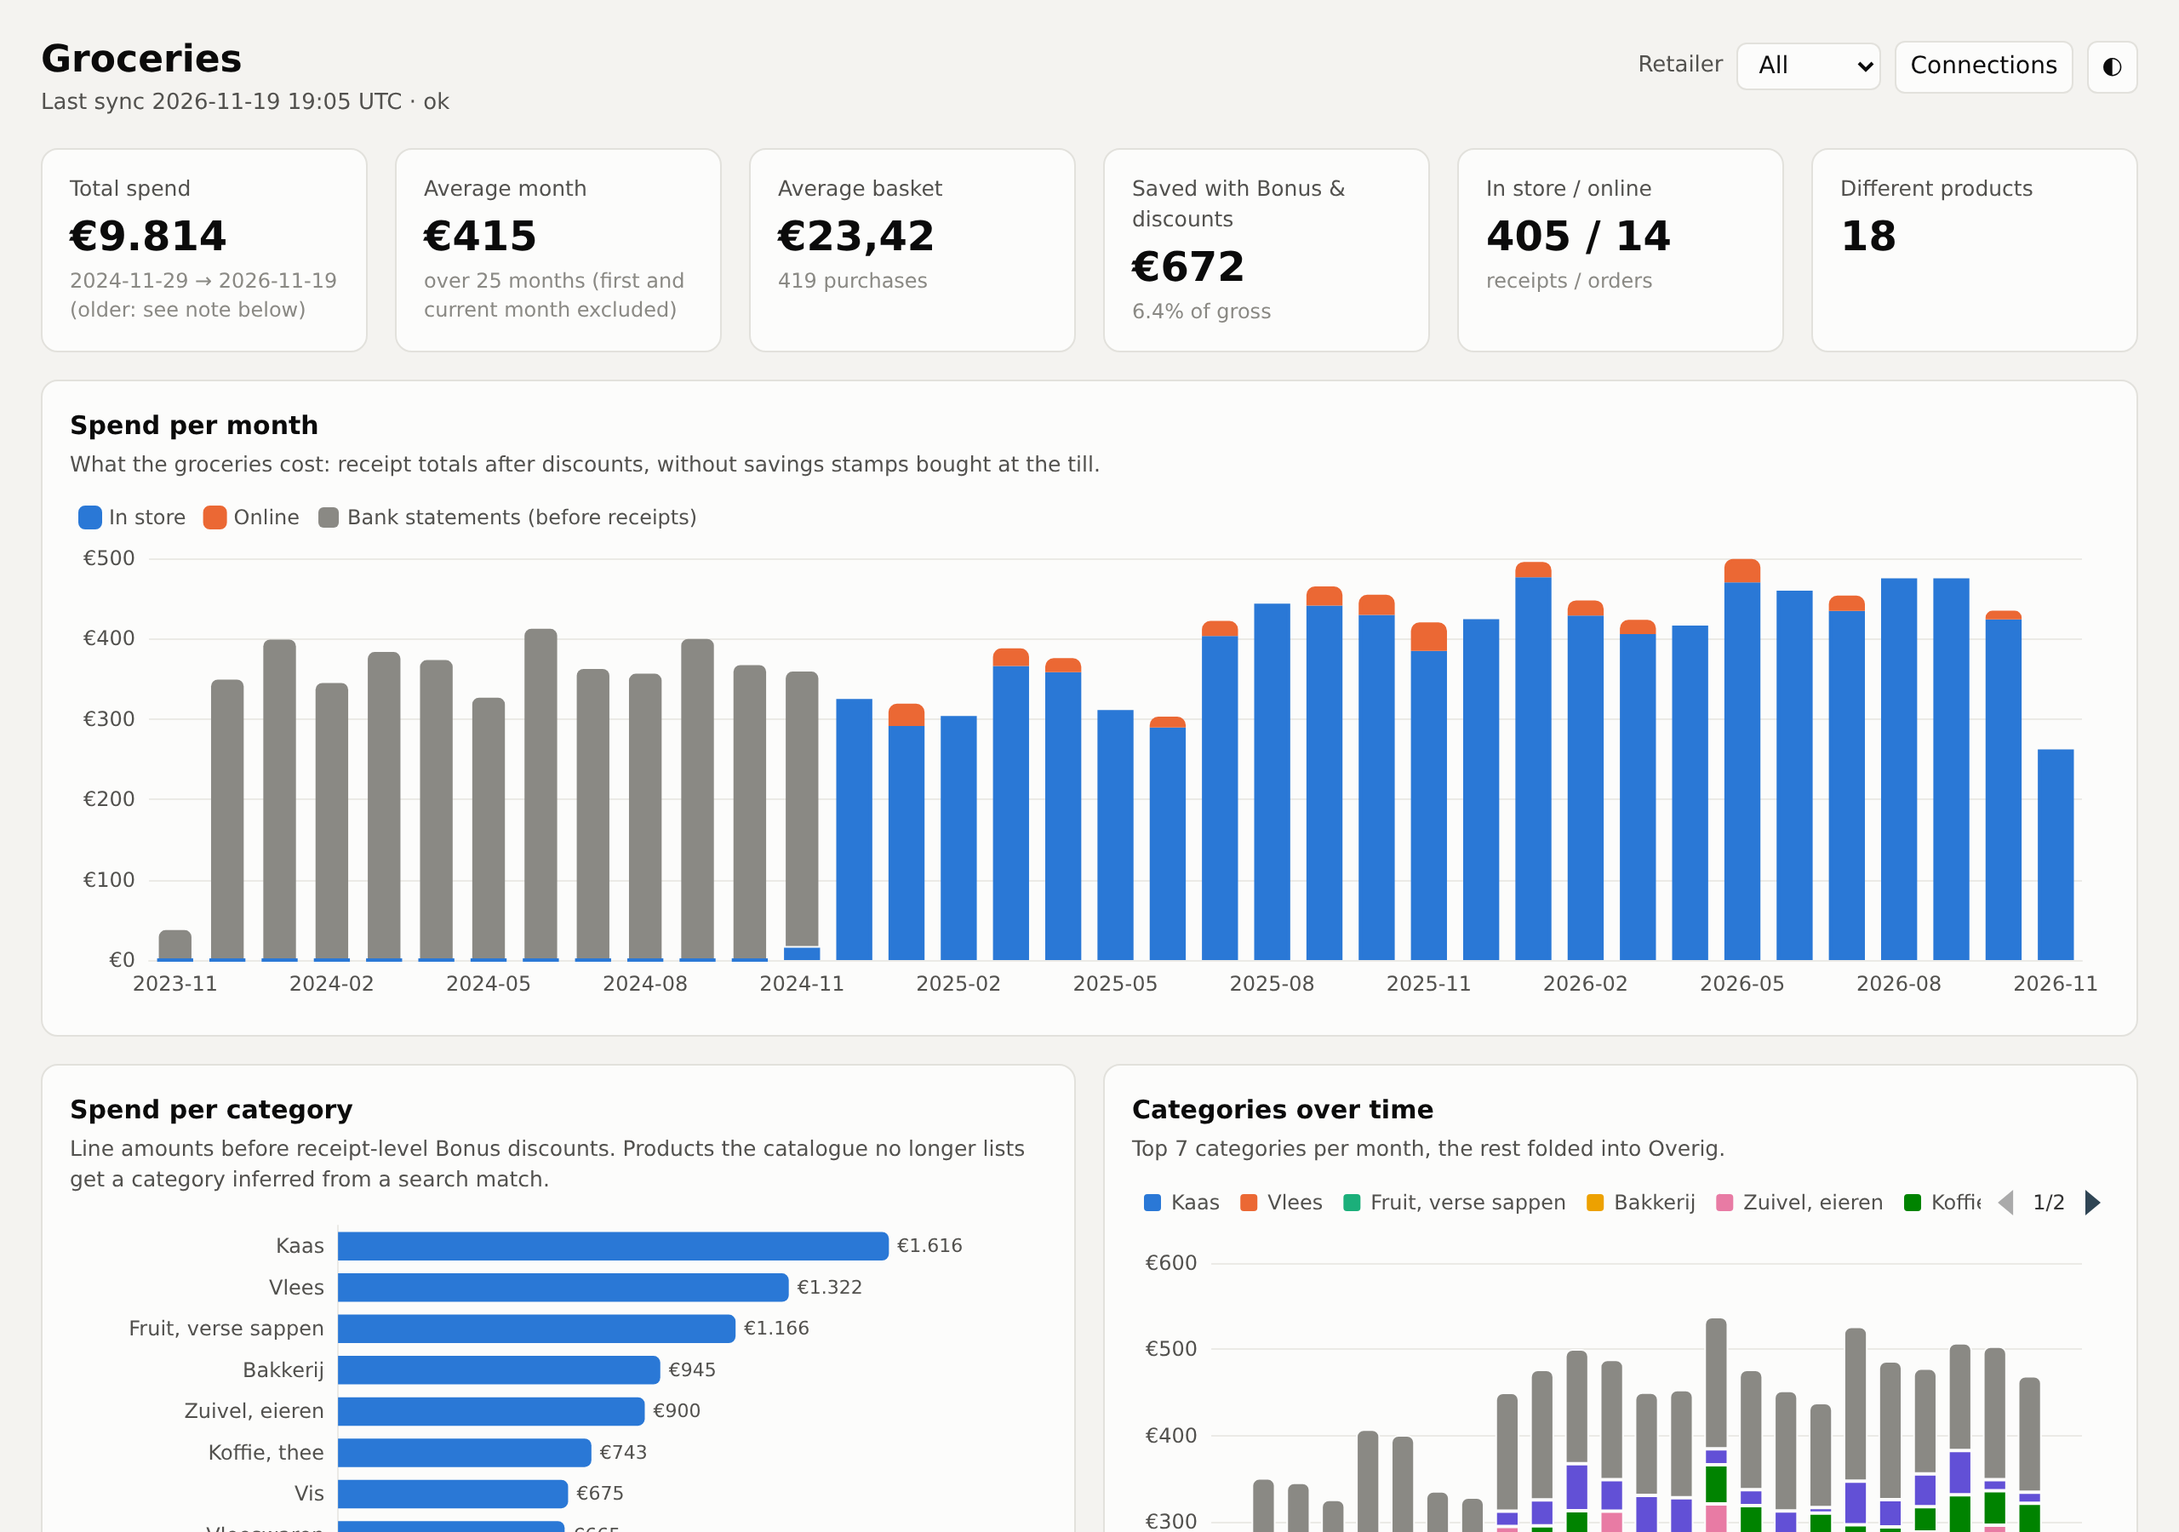
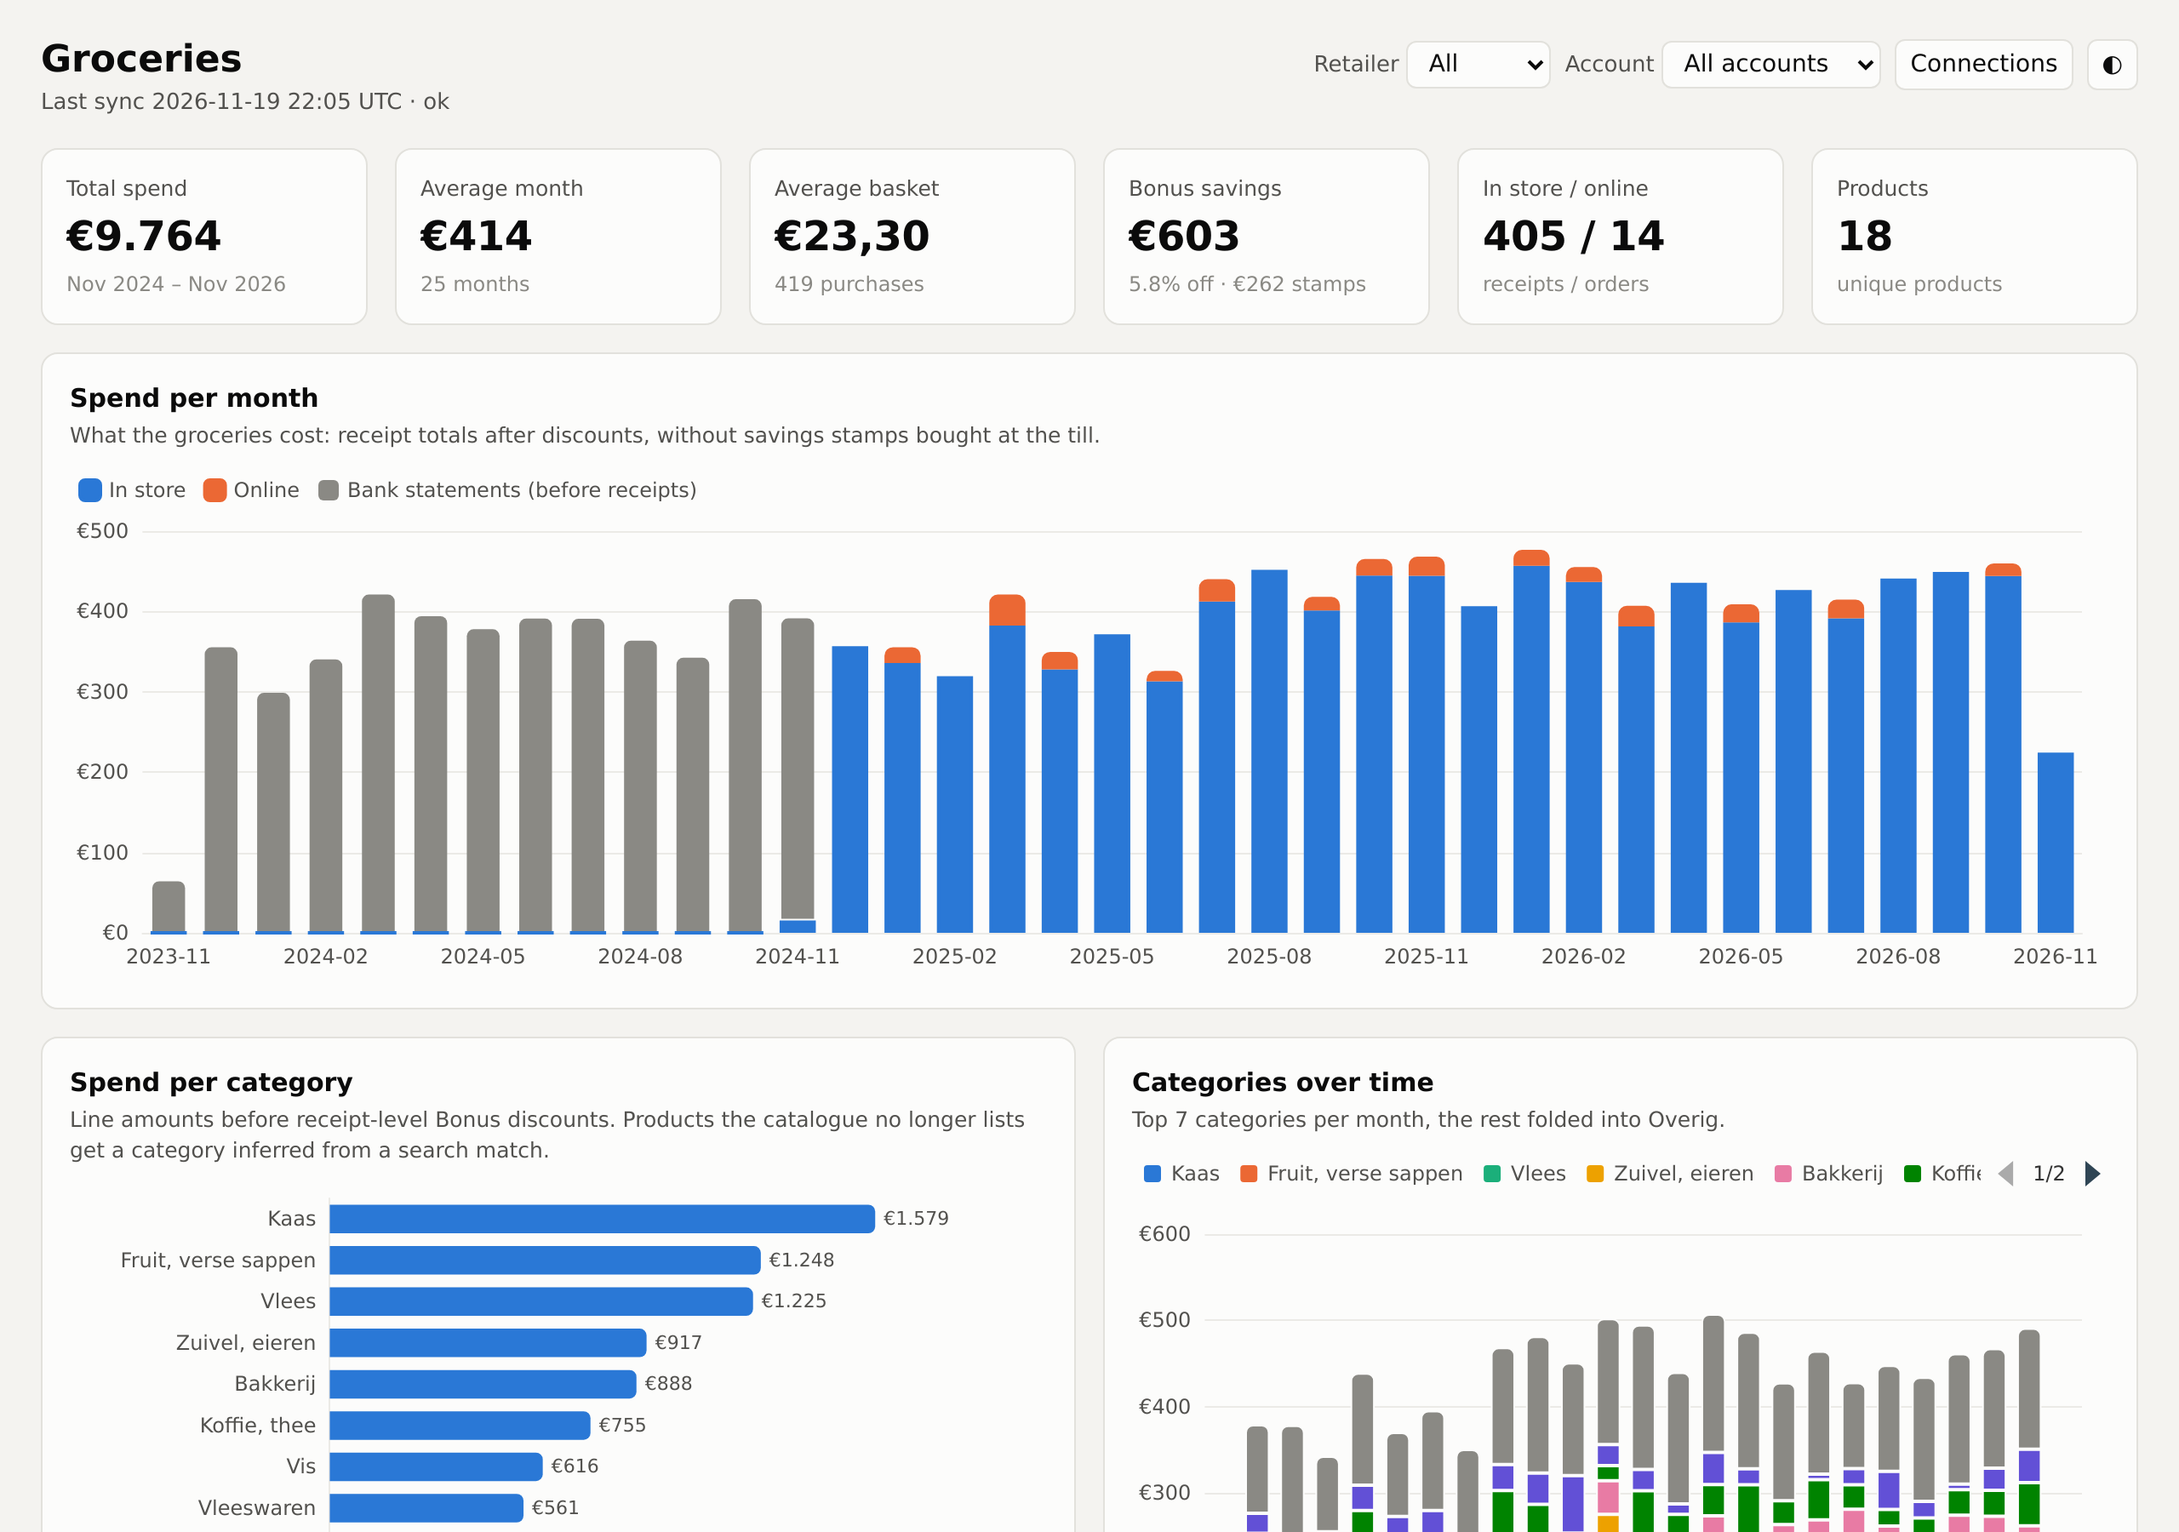
Align dashboard summary cards and refresh screenshots
Summary cards use fixed label, value and sub-text rows, one line each
(two on a phone for the sub-text), so every value sits on the same
baseline at any width. Shorter labels and sub-texts with the full
explanation in a tooltip; savings stamps move from Products to the Bonus
savings card. Account cards show their date range as months.

demo-seed now creates two AH accounts (Main, Sam) and one Jumbo account
plus some savings stamps. README screenshots regenerated from demo data
in light and dark, including the Connections panel.

diff --git a/src/groceries/static/index.html b/src/groceries/static/index.html
@@ -53,11 +53,18 @@ main { max-width: 1400px; margin: 0 auto; padding: 8px 24px 40px; display: grid;
 .card .sub { margin: 0 0 10px; color: var(--text-2); font-size: 12.5px; }
 .chart { width: 100%; height: 300px; }
 .chart.tall { height: 380px; }
-.tiles { grid-column: span 12; display: grid; gap: 16px; grid-template-columns: repeat(auto-fit, minmax(160px, 1fr)); }
-.tile { background: var(--surface); border: 1px solid var(--border); border-radius: 10px; padding: 14px 16px; }
-.tile .label { color: var(--text-2); font-size: 12.5px; }
-.tile .value { font-size: 24px; font-weight: 650; margin-top: 2px; font-variant-numeric: tabular-nums; }
-.tile .note { color: var(--muted); font-size: 12px; }
+.tiles { grid-column: span 12; display: grid; gap: 16px; grid-template-columns: repeat(6, minmax(0, 1fr)); }
+/* fixed rows, one line each, so every value sits on the same baseline whatever the text */
+.tile { background: var(--surface); border: 1px solid var(--border); border-radius: 10px; padding: 14px;
+  display: grid; grid-template-rows: 18px 34px 18px; row-gap: 2px; min-width: 0; }
+.tile > div { white-space: nowrap; overflow: hidden; text-overflow: ellipsis; }
+.tile .label { color: var(--text-2); font-size: 12.5px; line-height: 18px; }
+.tile .value { font-size: 24px; font-weight: 650; line-height: 34px; font-variant-numeric: tabular-nums; letter-spacing: -.01em; }
+.tile .note { color: var(--muted); font-size: 12px; line-height: 18px; font-variant-numeric: tabular-nums; }
+@media (max-width: 1099px) { .tiles { grid-template-columns: repeat(3, minmax(0, 1fr)); } }
+@media (max-width: 599px) { .tiles { grid-template-columns: repeat(2, minmax(0, 1fr)); gap: 10px; }
+  .tile { padding: 12px; grid-template-rows: 18px 30px 36px; } .tile .value { font-size: 21px; line-height: 30px; }
+  .tile .note { white-space: normal; display: -webkit-box; -webkit-box-orient: vertical; -webkit-line-clamp: 2; } }
 table { width: 100%; border-collapse: collapse; font-variant-numeric: tabular-nums; font-size: 13px; }
 #t-purchases td:first-child { white-space: nowrap; }
 th, td { text-align: left; padding: 6px 8px; border-bottom: 1px solid var(--grid); vertical-align: top; }
@@ -289,17 +296,28 @@ function base() {
 
 const barStyle = {borderRadius: [4, 4, 0, 0], borderColor: () => css("--surface")};
 
+const monthYear = (d) => d ? new Date(d + "T00:00").toLocaleDateString("en-GB", {month: "short", year: "numeric"}) : "–";
+
 function tiles(o) {
+  const pct = o.spend ? ((o.saved / (o.spend + o.saved)) * 100).toFixed(1) + "%" : "";
+  const stamps = o.stamps_bought ? ` · ${eur0(o.stamps_bought)} stamps` : "";
+  // [label, value, sub-text, tooltip with the full explanation]
   const t = [
-    ["Total spend", eur0(o.spend), `${o.first} → ${o.last} (older: see note below)`],
-    ["Average month", eur0(o.avg_full_month), `over ${o.months} months (first and current month excluded)`],
-    ["Average basket", eur(o.avg_basket), `${o.purchases} purchases`],
-    ["Saved with Bonus & discounts", eur0(o.saved), o.spend ? ((o.saved / (o.spend + o.saved)) * 100).toFixed(1) + "% of gross" : ""],
-    ["In store / online", `${o.store_visits} / ${o.online_orders}`, "receipts / orders"],
-    ["Different products", o.products, o.stamps_bought ? `plus ${eur0(o.stamps_bought)} in savings stamps` : ""],
+    ["Total spend", eur0(o.spend), `${monthYear(o.first)} – ${monthYear(o.last)}`,
+      `What the groceries cost from ${o.first} to ${o.last}. Older purchases: see the note at the bottom.`],
+    ["Average month", eur0(o.avg_full_month), `${o.months} months`,
+      `Average over ${o.months} full months; the first and the current month are partial and left out.`],
+    ["Average basket", eur(o.avg_basket), `${o.purchases} purchases`, `Spend per receipt or order, over ${o.purchases} purchases.`],
+    ["Bonus savings", eur0(o.saved), pct ? `${pct} off${stamps}` : "",
+      `Saved with Bonus and other discounts${pct ? `: ${pct} of what the groceries would have cost without them` : ""}.`
+      + (o.stamps_bought ? ` Also put ${eur0(o.stamps_bought)} into savings stamps (koopzegels), which is not counted as spend.` : "")],
+    ["In store / online", `${o.store_visits} / ${o.online_orders}`, "receipts / orders",
+      `${o.store_visits} store receipts and ${o.online_orders} online orders.`],
+    ["Products", o.products, "unique products", `${o.products} different products bought.`],
   ];
-  $("#tiles").innerHTML = t.map(([l, v, n]) =>
-    `<div class="tile"><div class="label">${esc(l)}</div><div class="value">${esc(v)}</div><div class="note">${esc(n)}</div></div>`).join("");
+  $("#tiles").innerHTML = t.map(([l, v, n, tip]) =>
+    `<div class="tile" title="${esc(tip)}"><div class="label">${esc(l)}</div><div class="value">${esc(v)}</div>` +
+    `<div class="note">${esc(n)}</div></div>`).join("");
   const s = (o.last_sync || [])[0];
   $("#meta").textContent = s ? `Last sync ${s.started_at.replace("T", " ").slice(0, 16)} UTC · ${s.status}` : "Never synced";
 }
@@ -561,7 +579,7 @@ function renderConnections() {
            <button data-act="rename" ${ids}>Rename</button>`;
       return `<div class="conn"><h3><span>${esc(a.label)}</span> ${st}</h3>
         <div class="row">${a.account ? "Account " + esc(a.account) : a.connected ? "Account connected" : "No login stored"}</div>
-        <div class="row">${a.purchases ? `${a.purchases} purchases · ${esc(a.first)} → ${esc(a.last)}` : "No purchases yet"}</div>
+        <div class="row">${a.purchases ? `${a.purchases} purchases · <span title="${esc(a.first)} → ${esc(a.last)}">${esc(monthYear(a.first))} – ${esc(monthYear(a.last))}</span>` : "No purchases yet"}</div>
         <div class="row">${lastLine}</div><div class="actions">${actions}</div></div>`;
     }).join("");
     const add = r.accounts.length

diff --git a/src/groceries/demo.py b/src/groceries/demo.py
@@ -39,6 +39,12 @@ STORES = {
     "ah": [("9001", "Voorbeeldstraat 1", "1234AB", "Demostad"), ("9002", "Proefplein 12", "1234CD", "Demostad")],
     "jumbo": [("9101", "Testlaan 7", "5678EF", "Demodorp")],
 }
+# (retailer, label, masked login, share of the retailer's purchases): a two-person household
+ACCOUNTS = [
+    ("ah", "Main", "m***@example.com", 0.7),
+    ("ah", "Sam", "s***@example.com", 0.3),
+    ("jumbo", "Main", "m***@example.com", 1.0),
+]
 
 
 def _price(base: float, inflation: float, day: date, start: date) -> float:
@@ -55,6 +61,14 @@ def seed(data_dir: Path, months: int = 24, rng_seed: int = 7) -> dict[str, int]:
     end = date.today()
     start = end - timedelta(days=months * 30)
     counts = {"purchases": 0, "market_prices": 0, "bank_payments": 0}
+    with conn:
+        accounts = {
+            (retailer, label): conn.execute(
+                "INSERT INTO accounts (retailer, label, display, connected_at) VALUES (?, ?, ?, ?)",
+                (retailer, label, display, int(datetime.now(UTC).timestamp()) - 3 * 86400),
+            ).lastrowid
+            for retailer, label, display, _share in ACCOUNTS
+        }
     day, n = start, 0
     while day <= end:
         for retailer, every in (("ah", 2), ("jumbo", 9)):
@@ -79,6 +93,13 @@ def seed(data_dir: Path, months: int = 24, rng_seed: int = 7) -> dict[str, int]:
                 continue
             gross = sum(ln.amount for ln in lines)
             saved = round(gross * rng.uniform(0, 0.12), 2)
+            stamps = round(gross * 0.1, 1) if retailer == "ah" and rng.random() < 0.3 else 0
+            if stamps:  # savings stamps bought at the till: in the receipt total, not in spend
+                lines.append(Line(name="Koopzegels", amount=stamps, quantity=1, product_key="stamps"))
+            owner = rng.choices(
+                [label for r, label, _d, _s in ACCOUNTS if r == retailer],
+                [share for r, _l, _d, share in ACCOUNTS if r == retailer],
+            )[0]
             store = rng.choice(STORES[retailer])
             n += 1
             ts = datetime(day.year, day.month, day.day, 16, rng.randint(0, 59), tzinfo=UTC)
@@ -89,10 +110,10 @@ def seed(data_dir: Path, months: int = 24, rng_seed: int = 7) -> dict[str, int]:
                     channel="online" if retailer == "ah" and n % 25 == 0 else "store",
                     external_id=f"demo-{retailer}-{n:05d}",
                     ts_utc=ts.strftime("%Y-%m-%dT%H:%M:%SZ"),
-                    total=round(gross - saved, 2),
+                    total=round(gross - saved + stamps, 2),
                     lines=lines,
                     discounts=[Discount(amount=saved, name="Bonus", type="BONUS")] if saved else [],
-                    payments=[Payment(method="PIN", amount=round(gross - saved, 2))],
+                    payments=[Payment(method="PIN", amount=round(gross - saved + stamps, 2))],
                     store_id=store[0],
                     store_street=store[1],
                     store_postcode=store[2],
@@ -100,6 +121,7 @@ def seed(data_dir: Path, months: int = 24, rng_seed: int = 7) -> dict[str, int]:
                 ),
                 "Europe/Amsterdam",
                 None,
+                accounts[(retailer, owner)],
             )
             counts["purchases"] += 1
         day += timedelta(days=1)
@@ -127,9 +149,11 @@ def seed(data_dir: Path, months: int = 24, rng_seed: int = 7) -> dict[str, int]:
             )
             counts["bank_payments"] += 1
             d += timedelta(days=4)
-        conn.execute(
-            "INSERT INTO sync_runs (retailer, started_at, finished_at, status, message) VALUES "
-            "('ah', ?, ?, 'ok', 'demo data')",
-            (datetime.now(UTC).isoformat(timespec="seconds"),) * 2,
-        )
+        now = datetime.now(UTC).isoformat(timespec="seconds")
+        for (retailer, _label), account_id in accounts.items():
+            conn.execute(
+                "INSERT INTO sync_runs (retailer, account_id, started_at, finished_at, status, new_purchases, message) "
+                "VALUES (?, ?, ?, ?, 'ok', 0, 'demo data')",
+                (retailer, account_id, now, now),
+            )
     return counts

diff --git a/tests/test_importers.py b/tests/test_importers.py
@@ -168,5 +168,11 @@ def test_demo_seed_is_synthetic_and_refuses_real_db(config: Config) -> None:
     a = Analytics(connect(config.db_path))
     assert a.overview()["purchases"] == counts["purchases"]
     assert all(p["name"].startswith("Demo ") for p in a.products("spend", 50))
+    conn = connect(config.db_path)
+    labels = {tuple(r) for r in conn.execute("SELECT retailer, label FROM accounts")}
+    assert labels == {("ah", "Main"), ("ah", "Sam"), ("jumbo", "Main")}
+    ah_owners = conn.execute("SELECT COUNT(DISTINCT account_id) FROM purchases WHERE retailer = 'ah'").fetchone()[0]
+    assert ah_owners == 2
+    assert conn.execute("SELECT COUNT(*) FROM purchases WHERE account_id IS NULL").fetchone()[0] == 0
     with pytest.raises(SystemExit):
         seed(config.data_dir)

diff --git a/README.md b/README.md
@@ -9,9 +9,12 @@ change over time.
 > undocumented APIs behind the retailers' own apps. They can change or disappear at any time. Use it for
 > your own accounts and for personal use only, keep the request rate low, and use it at your own risk.
 
-![Dashboard with synthetic demo data](docs/screenshot.png)
+<picture>
+  <source media="(prefers-color-scheme: dark)" srcset="docs/screenshot-dark.png">
+  <img alt="Dashboard with synthetic demo data" src="docs/screenshot.png">
+</picture>
 
-*The screenshot shows made-up demo data (`groceries demo-seed`).*
+*Screenshots show made-up demo data (`groceries demo-seed`).*
 
 ## Contents
 
@@ -105,8 +108,8 @@ GROCERIES_DATA_DIR=./demo .venv/bin/groceries demo-seed
 GROCERIES_DATA_DIR=./demo .venv/bin/groceries serve
 ```
 
-`demo-seed` fills an empty data directory with made-up purchases, so you can look around without an
-account.
+`demo-seed` fills an empty data directory with made-up purchases from two made-up Albert Heijn
+accounts (*Main* and *Sam*) and one Jumbo account, so you can look around without an account.
 
 ## Connecting Albert Heijn and Jumbo
 
@@ -144,6 +147,11 @@ that other account. Your browser is probably still logged in to the first accoun
 hand out *its* code again, so first log out on ah.nl / jumbo.com, or open the dashboard in a private
 window for this. The app refuses a login for a store account that is already connected, and a
 **Reconnect** only accepts the account that card belongs to.
+
+<picture>
+  <source media="(prefers-color-scheme: dark)" srcset="docs/connections-dark.png">
+  <img alt="Connections panel with two Albert Heijn accounts and one Jumbo account (demo data)" src="docs/connections.png">
+</picture>
 
 All accounts are synced and shown together; pick one in the **Account** menu at the top to see only its
 purchases (bank imports are not tied to an account, so they only show under *All accounts*). A receipt

diff --git a/CHANGELOG.md b/CHANGELOG.md
@@ -18,6 +18,11 @@
 - Upgrading is automatic: the existing login of each supermarket becomes its account "Main" and keeps all
   purchases (`<retailer>-token.json` moves to `<retailer>-<id>-token.json`).
 - Fix: with only one supermarket in the data, the header hid the Connections button too.
+- Summary cards: fixed label / value / sub-text rows, so every value lines up across the row at any
+  width; shorter labels and sub-texts (full explanation in the tooltip). Savings stamps moved from
+  *Products* to the *Bonus savings* card.
+- `demo-seed` creates two AH accounts and one Jumbo account, and some savings stamps; README screenshots
+  refreshed (light and dark, including Connections).
 
 ## v1.0.0
 
